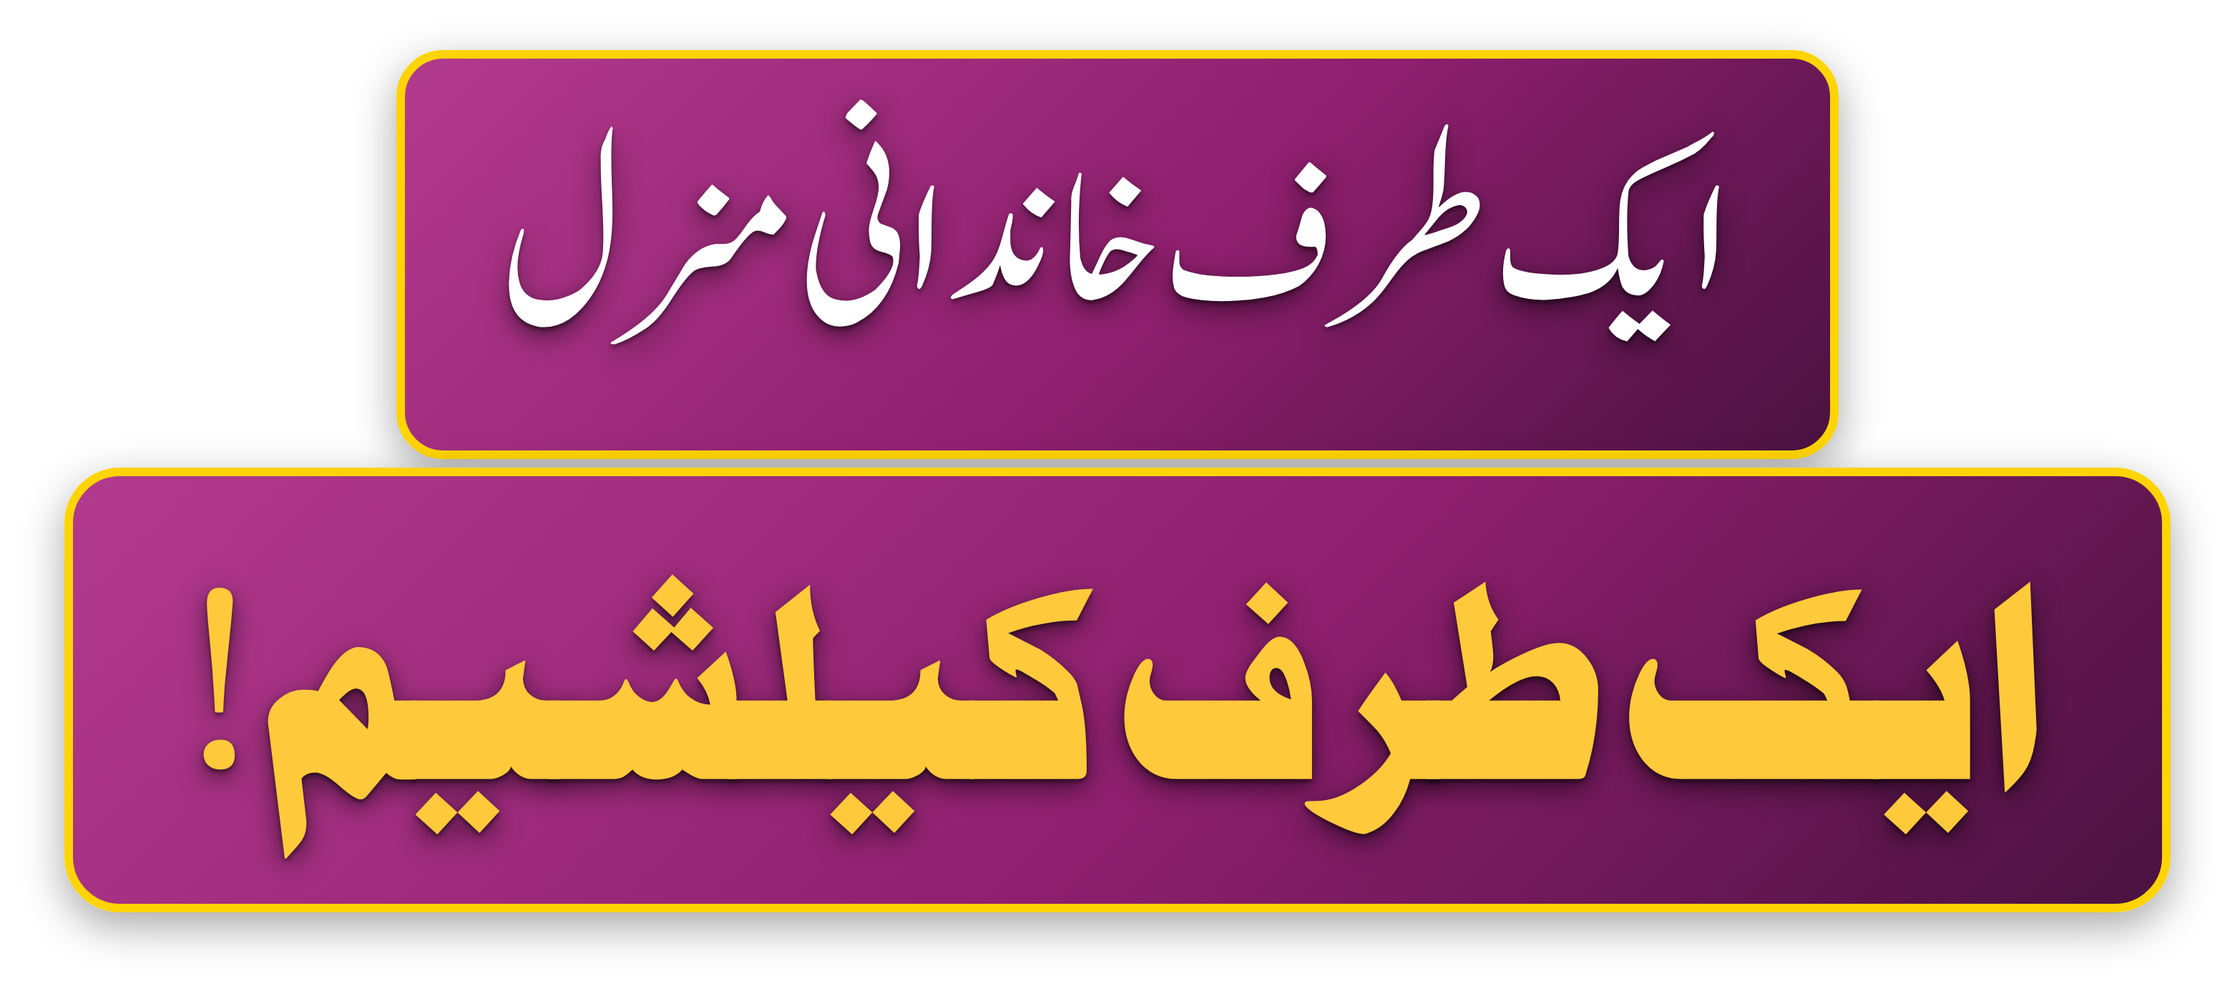
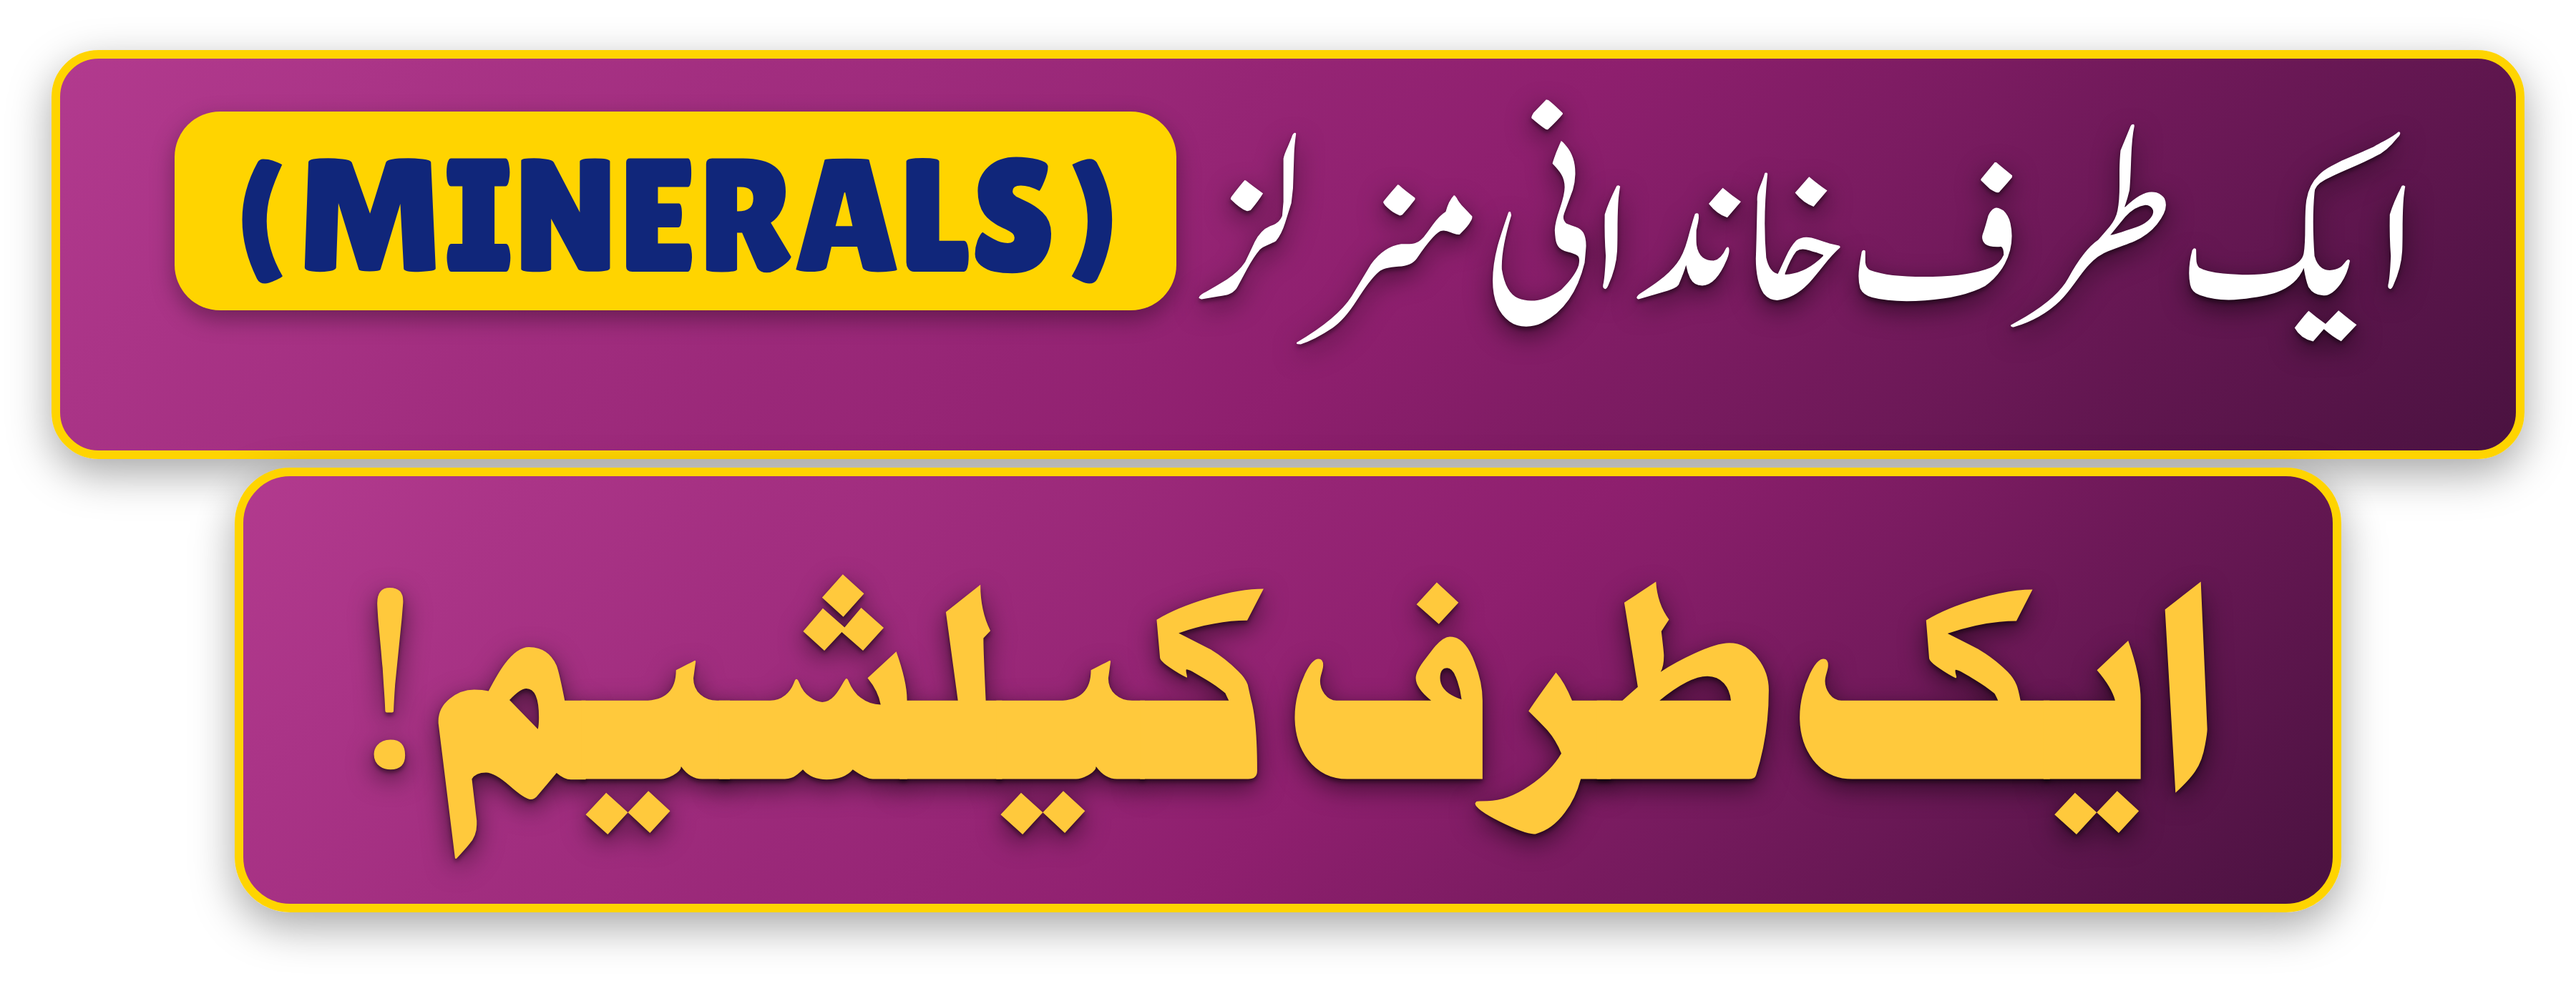
Typed tags fit on one line (auto font size); hg-calsol heading: minerals (MINERALS)
Claude-Session: https://claude.ai/code/session_0139To4Bi5mkGo2BmfVPNRP3

diff --git a/tools/cards.py b/tools/cards.py
@@ -167,7 +167,8 @@ def swiss_frame(c: dict, t: float, dur: float, W: int, H: int, th: dict, fade: f
         pop = ease_back(t / 0.3)
         col = c.get("color", th["accent"])
         return (f'<div class="tagbox" style="left:{(x - bw / 2) * 100:.2f}%;top:{(y - bh / 2) * 100:.2f}%;'
-                f'width:{bw * 100:.2f}%;height:{bh * 100:.2f}%;--c:{col};opacity:{fade:.3f};'
+                f'width:{bw * 100:.2f}%;height:{bh * 100:.2f}%;--c:{col};opacity:{fade:.3f};white-space:nowrap;'
+                f'font-size:{min(bh * H * 0.62, bw * W * 0.86 / max(1, len(txt) * 0.7)):.0f}px;'
                 f'transform:scale({0.7 + 0.3 * pop:.4f})"><span>{html.escape(txt[:n])}</span>'
                 f'<span class="ghost">{html.escape(txt[n:])}</span></div>')
     bg = c.get("bg", th["accent"])
